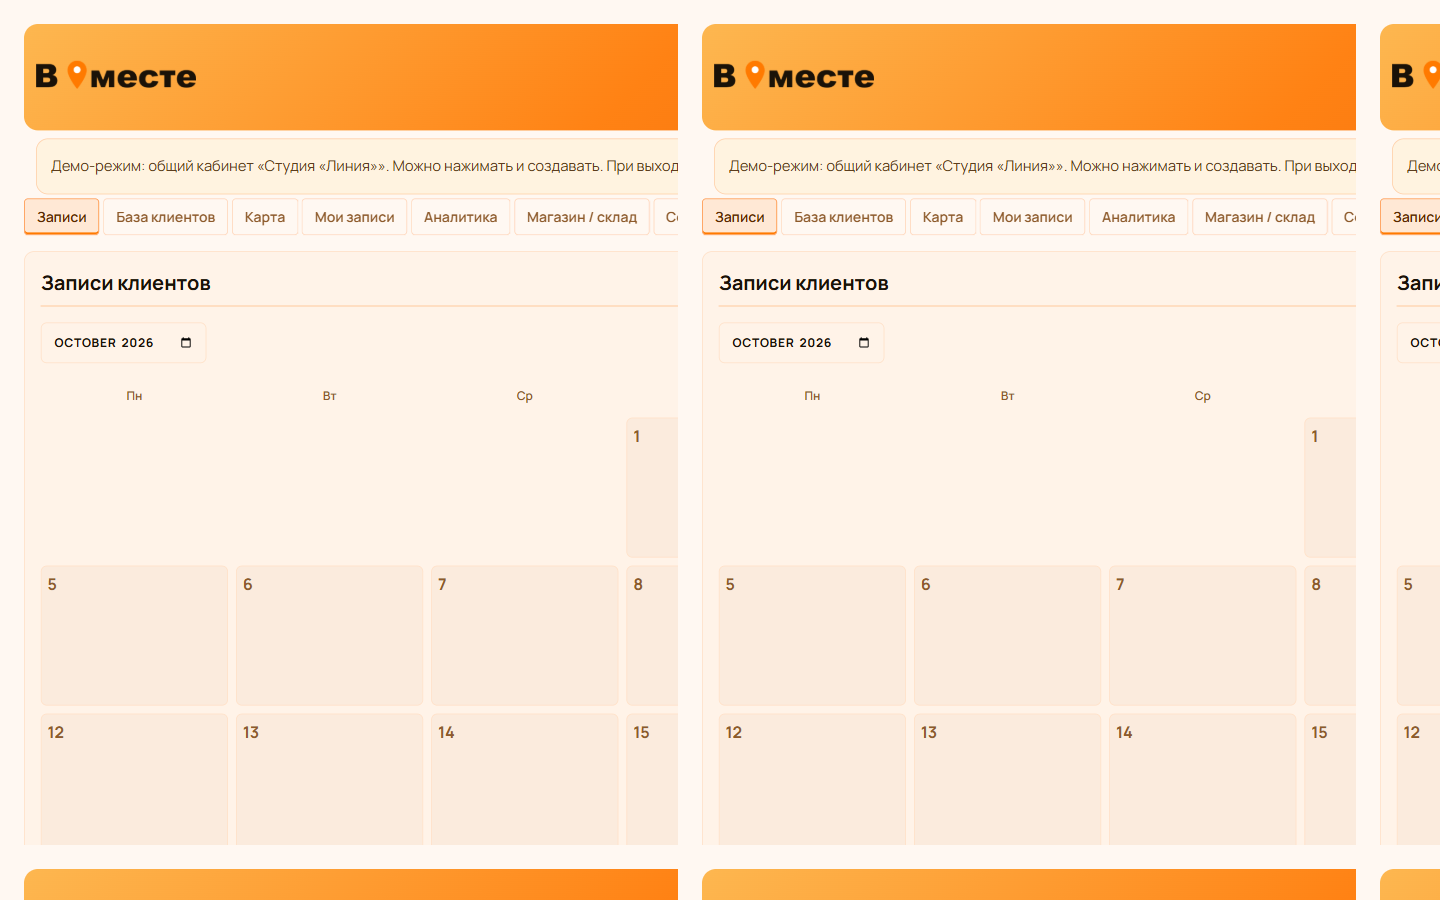
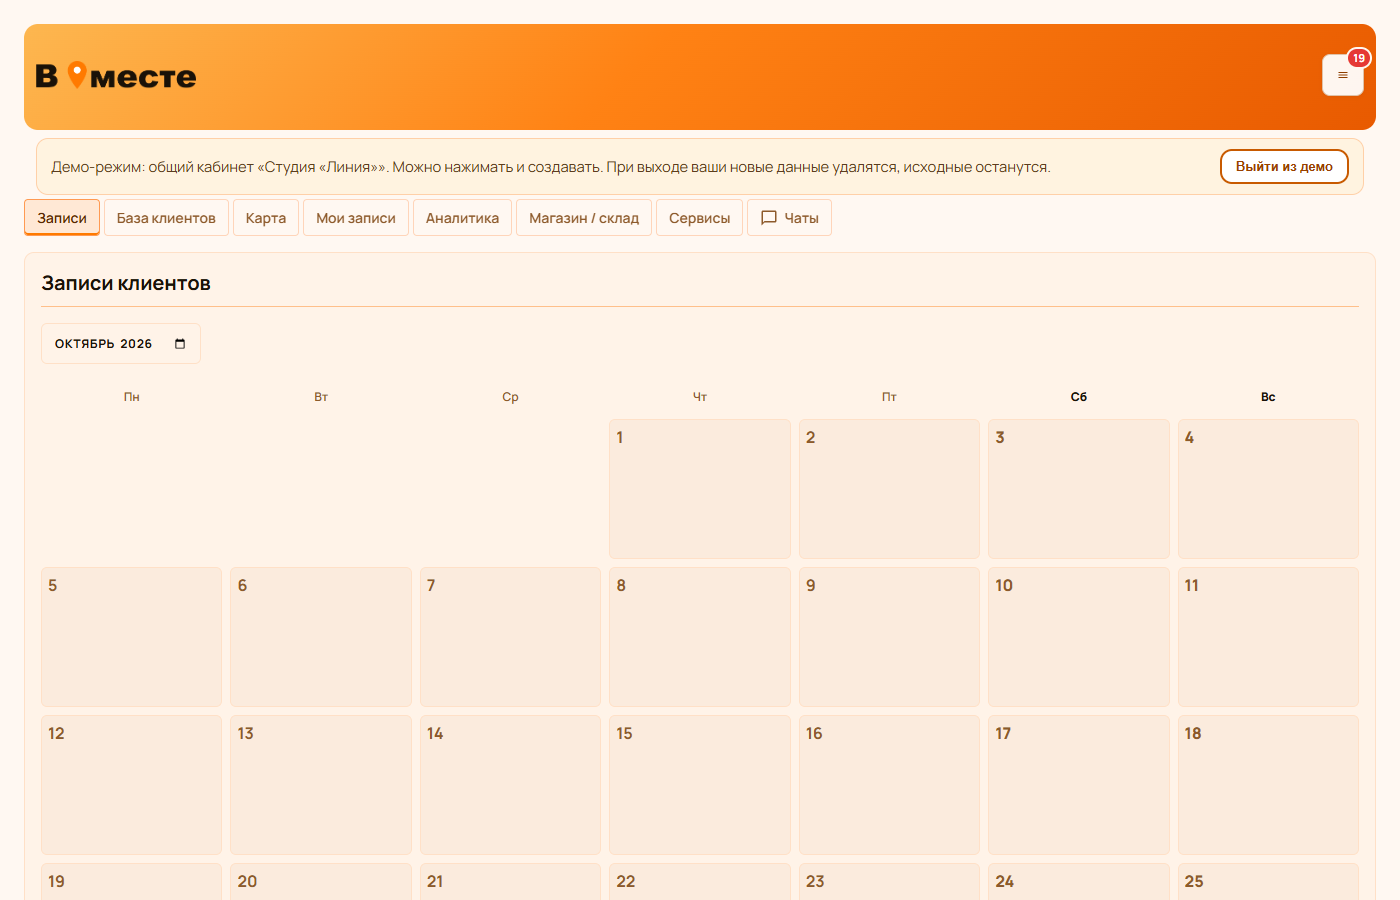
Replace tiled blog UI screenshots with real Chrome desktop captures.
Cursor browser CDP was compositing a narrow panel twice; shots are now 1400x900 from headless Chrome, and is-shot CSS no longer forces a squeezed frame.

diff --git a/frontend/public/legal.css b/frontend/public/legal.css
@@ -548,22 +548,23 @@ a.btn-primary-link:hover {
   object-fit: cover;
 }
 
-/* UI screenshots: never crop — show the whole frame */
+/* UI screenshots: full landscape PNGs, no crop / no squeeze from HTML attrs */
 .article-figure.is-shot {
-  overflow: visible;
-  background: #fff8f0;
+  overflow: hidden;
+  background: rgba(26, 18, 8, 0.06);
 }
 
 .article-figure.is-shot img {
-  aspect-ratio: auto;
+  display: block;
   width: 100%;
   max-width: 100%;
-  height: auto;
+  height: auto !important;
   max-height: none;
-  object-fit: contain;
+  aspect-ratio: auto !important;
+  object-fit: contain !important;
   object-position: top center;
   background: #fff8f0;
-  border-radius: 14px 14px 0 0;
+  border-radius: 0;
 }
 
 .article-shot-where {

diff --git a/frontend/public/blog/kak-podelitsya-ssylkoj-zapisi-klientam.html b/frontend/public/blog/kak-podelitsya-ssylkoj-zapisi-klientam.html
@@ -113,8 +113,7 @@
         <img
           src="/blog/img/screens/widget-settings-wide.png"
           alt="Блок виджета записи: ссылка /w/ и код iframe в настройках организации"
-          width="900"
-          height="1200"
+          
           loading="lazy"
           decoding="async"
         />
@@ -142,8 +141,7 @@
         <img
           src="/blog/img/screens/widget-public-wide.png"
           alt="Публичный виджет записи: выбор мастера, услуги и даты"
-          width="900"
-          height="1200"
+          
           loading="lazy"
           decoding="async"
         />

diff --git a/frontend/public/blog/qr-menyu-dlya-kafe-kak-zapustit.html b/frontend/public/blog/qr-menyu-dlya-kafe-kak-zapustit.html
@@ -126,8 +126,7 @@
         <img
           src="/blog/img/screens/cafe-qr-wide.png"
           alt="QR-меню самовывоза и доставки в кабинете кафе Вместе"
-          width="900"
-          height="1200"
+          
           loading="lazy"
           decoding="async"
         />
@@ -163,8 +162,7 @@
         <img
           src="/blog/img/screens/cafe-menu-public-wide.png"
           alt="Публичное меню кафе: категории, цены, добавление в заказ"
-          width="900"
-          height="1200"
+          
           loading="lazy"
           decoding="async"
         />

diff --git a/frontend/public/blog/kalendar-zapisey-v-kabinete.html b/frontend/public/blog/kalendar-zapisey-v-kabinete.html
@@ -96,8 +96,7 @@
         <img
           src="/blog/img/screens/calendar-bookings-wide.png"
           alt="Календарь записей клиентов в кабинете Вместе"
-          width="900"
-          height="1200"
+          
           loading="lazy"
           decoding="async"
         />
@@ -115,8 +114,7 @@
         <img
           src="/blog/img/screens/intervals-wide.png"
           alt="Форма бронирования интервала: дата и время"
-          width="900"
-          height="1200"
+          
           loading="lazy"
           decoding="async"
         />

diff --git a/frontend/public/blog/chaty-i-soobshcheniya-o-zapisi.html b/frontend/public/blog/chaty-i-soobshcheniya-o-zapisi.html
@@ -94,8 +94,7 @@
         <img
           src="/blog/img/screens/chats-wide.png"
           alt="Список чатов организации в кабинете Вместе"
-          width="900"
-          height="1200"
+          
           loading="lazy"
           decoding="async"
         />
@@ -112,8 +111,7 @@
         <img
           src="/blog/img/screens/org-messages-wide.png"
           alt="Шаблоны сообщений подтверждения и отмены записи"
-          width="900"
-          height="1200"
+          
           loading="lazy"
           decoding="async"
         />

diff --git a/frontend/public/blog/katalog-uslug-i-ceny.html b/frontend/public/blog/katalog-uslug-i-ceny.html
@@ -101,8 +101,7 @@
         <img
           src="/blog/img/screens/services-catalog-wide.png"
           alt="Каталог услуг: категории парикмахерские, ногти, брови"
-          width="900"
-          height="1200"
+          
           loading="lazy"
           decoding="async"
         />

diff --git a/frontend/public/blog/kak-dobavit-sotrudnika-i-prava.html b/frontend/public/blog/kak-dobavit-sotrudnika-i-prava.html
@@ -101,8 +101,7 @@
         <img
           src="/blog/img/screens/staff-wide.png"
           alt="Форма приглашения сотрудника: email и выбор роли"
-          width="900"
-          height="1200"
+          
           loading="lazy"
           decoding="async"
         />

diff --git a/frontend/public/blog/kak-nastroit-online-zapis-v-salone.html b/frontend/public/blog/kak-nastroit-online-zapis-v-salone.html
@@ -130,8 +130,7 @@
         <img
           src="/blog/img/screens/services-catalog-wide.png"
           alt="Каталог услуг салона в кабинете Вместе"
-          width="900"
-          height="1200"
+          
           loading="lazy"
           decoding="async"
         />
